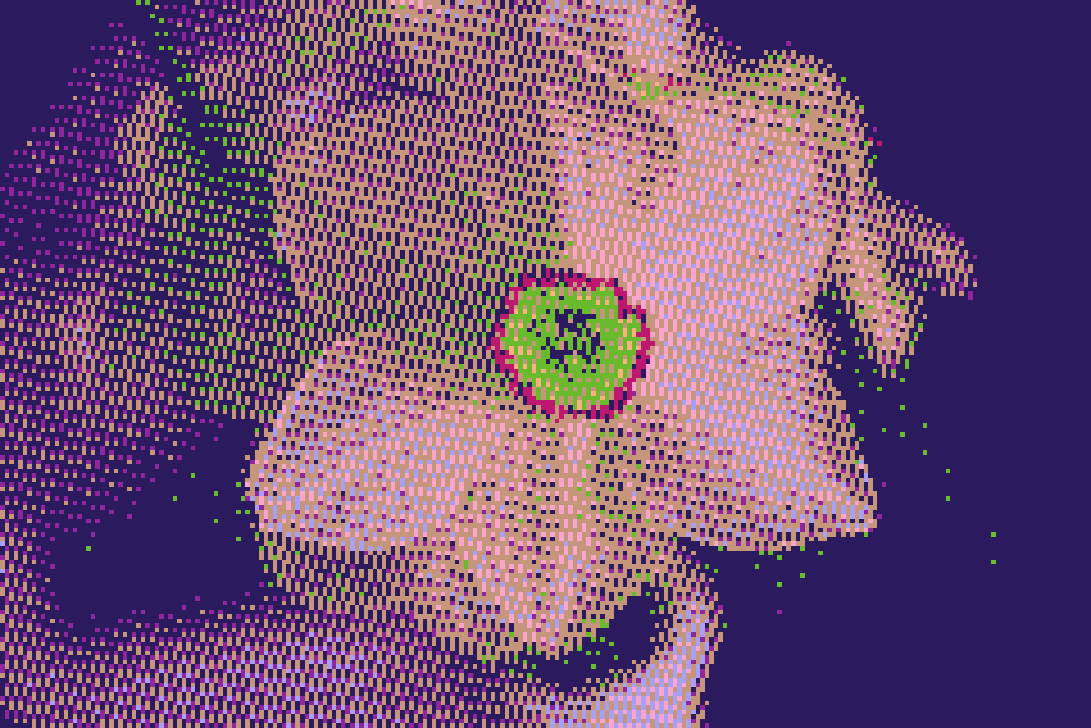
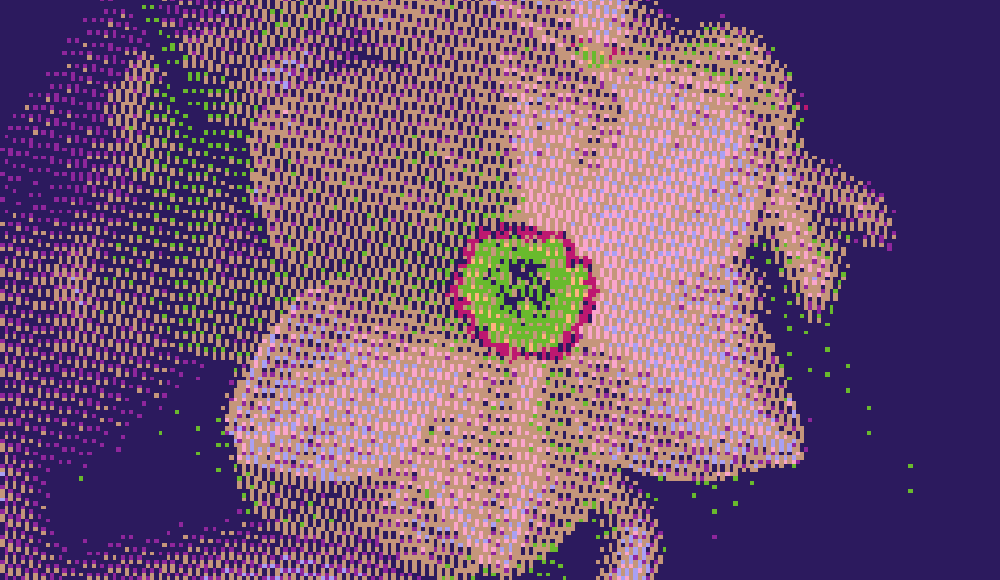
Crop carousel images

diff --git a/inc/config.php b/inc/config.php
@@ -31,7 +31,7 @@
     define('BASE_URL', '/');
     define('CSS_URL_BASE', BASE_URL.'styles/');
     define('JS_URL_BASE', BASE_URL.'js/');
-    define('IMAGES_URL', BASE_URL.'images/cropped/');
+    define('IMAGES_URL', BASE_URL.'images/');
 
     define('CSS_APP_URL', CSS_URL_BASE.'style.css');
 
